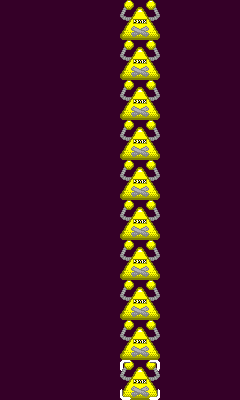
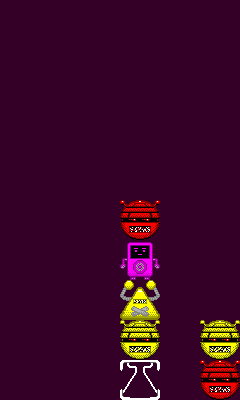
updated level editor click actions. left click replaces, right click removes

Changed region(s): [[0.4958, 0.0, 0.6708, 0.72], [0.8167, 0.78, 1.0, 1.0], [0.4958, 0.78, 0.6708, 1.0]]

diff --git a/engine.html b/engine.html
@@ -1471,7 +1471,7 @@ $def with (name)
 
                 }
 
-              // remove item clicked
+              // add item on hand
               } else {
 
                 if (this_stack.items.length < BOARD_HEIGHT) {
@@ -1494,67 +1494,110 @@ $def with (name)
 
               if (right_click) {
 
-                var matches = new Array()
-                var last_match = this_stack.items[0]
-                var this_match
-                var touched_this_item = false
+                // remove clicked item
+                this_stack.removeItem(this_item)
 
-                matches.push(last_match)
-                console.log("pushing onto matches: (" + last_match.type + "," + last_match.color + ")")
+                var sprite_stack = (this_item.type == 0) ? this.blocks : (
+                  (this_item.type == 1) ? this.flasks : this.robots
+                  )
 
-                // THIS WAS DONE WITH TRIAL AND ERROR. TODO: COMMENTS
-                for (var i=1; i < this_stack.items.length; i++) {
+                if(this_item.color == WHITE)
+                  color = 6
+                else if (this_item.color == EMPTY)
+                  color = 7
+                else
+                  color = this_item.color
 
-                  console.log("i = " + i)
-
-                  this_match = this_stack.items[i]
-
-                  if (this_match.type==last_match.type && this_match.color==last_match.color) {
-                    matches.push(this_match)
-                    console.log("pushing onto matches: (" + this_match.type + "," + this_match.color + ")")
-                    last_match = this_match
-                  } else {
-
-                    if (i > click_y)
-                      touched_this_item = true
-
-                    if (!touched_this_item) {
-                      matches = new Array()
-                      matches.push(this_match)
-                      console.log("pushing onto matches: (" + this_match.type + "," + this_match.color + ")")
-                      last_match = this_match
-                    } else {
-                      break
-                    }
-
-                  }
-
-                }
-
-                console.log("matches = " + matches)
-                this_stack.removeItems(matches)
+                this.hand = new jaws.Sprite(sprite_stack[color])
+                this.hand.type = this_item.type
+                this.hand.color = this_item.color
 
               } else {
 
                 // remove clicked item
                 this_stack.removeItem(this_item)
 
+                // replace clicked item with item on hand by:
+
+                // remove but save all items above clicked item
+                var stack_above = new Array()
+                for (var i=this_stack.items.length-1; i>=click_y; i--) {
+                  this_item = this_stack.items[i]
+                  stack_above.push(this_item)
+                  this_stack.removeItem(this_item)
+                }
+
+                // first add item from hand
+                this_stack.items.push(new Item(this_stack,level_editor.hand.type,level_editor.hand.color,click_x,this_stack.items.length))
+                this_item = this_stack.items[this_stack.items.length-1]
+                this_item.sprite.x = player.board.posx(click_x)
+                this_item.sprite.y = player.board.posy(click_y)
+
+                // then add back the stack above
+                var i = 1
+                while (stack_above.length>0) {
+                  this_stack.items.push(stack_above.pop())
+                  this_item = this_stack.items[this_stack.items.length-1]
+                  this_item.y = this_stack.items.length - 1
+                  i++
+                }
+
+                // stack.items.push(hand_items.pop())
+
+                // // update stack items
+                // var item = stack_items.pop()
+                // item.x = this.x
+                // item.y = stack_items.length
+                // item.stack = stack
+
+                // // update sprite destination
+                // item.sprite.dx = this.board.posx(item.x)
+                // item.sprite.dy = this.board.posy(item.y)
+
+                // stack_items.push(item)
+
+                // OLD CODE FOR REVERSE FILL
+                // var matches = new Array()
+                // var last_match = this_stack.items[0]
+                // var this_match
+                // var touched_this_item = false
+
+                // matches.push(last_match)
+                // console.log("pushing onto matches: (" + last_match.type + "," + last_match.color + ")")
+
+                // // THIS WAS DONE WITH TRIAL AND ERROR. TODO: COMMENTS
+                // for (var i=1; i < this_stack.items.length; i++) {
+
+                //   console.log("i = " + i)
+
+                //   this_match = this_stack.items[i]
+
+                //   if (this_match.type==last_match.type && this_match.color==last_match.color) {
+                //     matches.push(this_match)
+                //     console.log("pushing onto matches: (" + this_match.type + "," + this_match.color + ")")
+                //     last_match = this_match
+                //   } else {
+
+                //     if (i > click_y)
+                //       touched_this_item = true
+
+                //     if (!touched_this_item) {
+                //       matches = new Array()
+                //       matches.push(this_match)
+                //       console.log("pushing onto matches: (" + this_match.type + "," + this_match.color + ")")
+                //       last_match = this_match
+                //     } else {
+                //       break
+                //     }
+
+                //   }
+
+                // }
+
+                // console.log("matches = " + matches)
+                // this_stack.removeItems(matches)
+
               }
-
-              var sprite_stack = (this_item.type == 0) ? this.blocks : (
-                (this_item.type == 1) ? this.flasks : this.robots
-                )
-
-              if(this_item.color == WHITE)
-                color = 6
-              else if (this_item.color == EMPTY)
-                color = 7
-              else
-                color = this_item.color
-
-              this.hand = new jaws.Sprite(sprite_stack[color])
-              this.hand.type = this_item.type
-              this.hand.color = this_item.color
 
             }
           }
